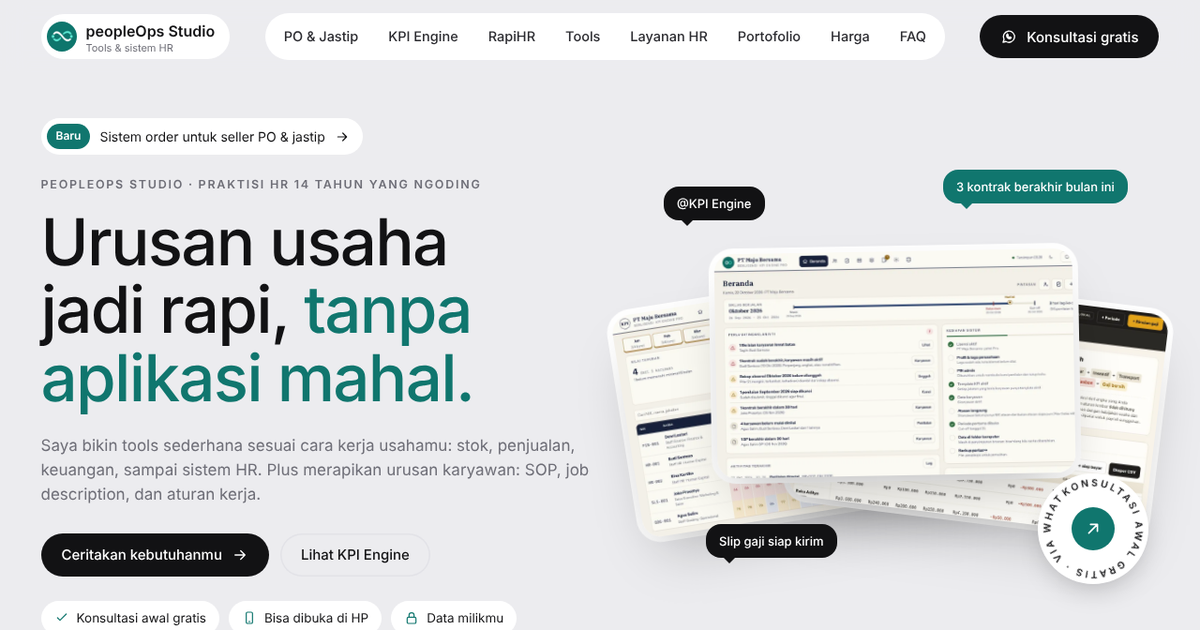
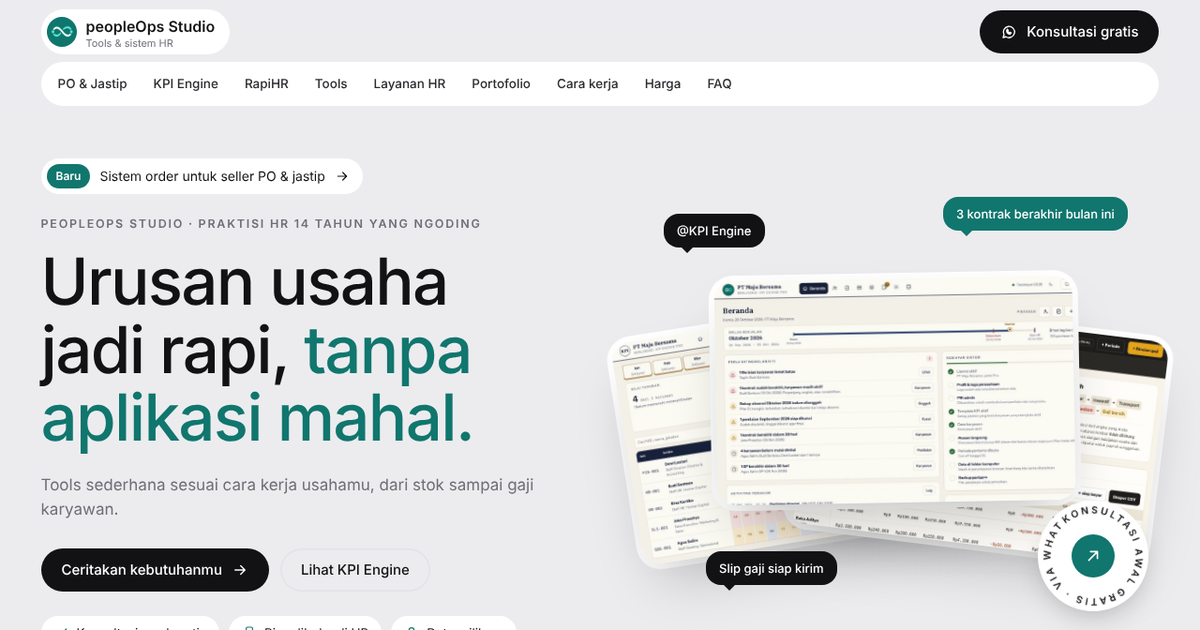
peopleOps landing: ringkas untuk HP, tombol Lihat detail, tab berurutan
Claude-Session: https://claude.ai/code/session_01LgEpUndTVM2aZbJC6vrpbG

diff --git a/peopleops/index.html b/peopleops/index.html
@@ -45,7 +45,7 @@ img{max-width:100%;height:auto;display:block}
 .nav a{white-space:nowrap;position:relative;z-index:1;transition:color .35s;padding:9px 15px;border-radius:999px;text-decoration:none;font-size:14.5px;color:var(--ink2);font-weight:500}
 .nav a:hover{background:var(--paper2)}.nav.has-pill a:hover{background:none;color:var(--ink)}
 .nav a.on{background:var(--ink);color:var(--paper)}.nav.has-pill a.on{background:none;color:var(--paper)}
-@media(max-width:1260px){.nav{display:none}.hdr .btn{margin-left:auto}}
+@media(max-width:1340px){.nav{display:none}.hdr .btn{margin-left:auto}}
 @media(max-width:420px){.brand small{display:none}.hdr .btn{padding:12px 16px}}
 
 /* hero */
@@ -276,7 +276,7 @@ footer .links a{background:var(--paper);border-radius:999px;padding:8px 14px;tex
 /* ===== tampilan HP: lebih ringkas, kartu digeser ke samping ===== */
 .dots{display:none}
 .hdr .btn .xs-hide{margin-left:calc(.28em - 10px)}
-@media(max-width:1260px){
+@media(max-width:1340px){
   .hdr .wrap{flex-wrap:wrap;row-gap:8px;padding-block:10px 8px}
   .nav{display:flex;order:3;width:100%;margin:0;overflow-x:auto;scrollbar-width:none;-webkit-overflow-scrolling:touch}
   .nav::-webkit-scrollbar{display:none}
@@ -313,6 +313,7 @@ footer .links a{background:var(--paper);border-radius:999px;padding:8px 14px;tex
   .grid.g3,.grid.g4:not(.prob),.steps{grid-template-columns:none;grid-auto-flow:column;grid-auto-columns:84%;gap:12px;overflow-x:auto;scroll-snap-type:x mandatory;margin-inline:calc(-1*var(--gx));padding:2px var(--gx) 4px;scroll-padding-inline:var(--gx);scrollbar-width:none;-webkit-overflow-scrolling:touch}
   .grid.g3::-webkit-scrollbar,.grid.g4::-webkit-scrollbar,.steps::-webkit-scrollbar{display:none}
   .grid.g3>*,.grid.g4:not(.prob)>*,.steps>*{scroll-snap-align:start}
+  #tools .grid.g3,#cara .steps{align-items:start}
   .grid.g3>.pre,.grid.g4>.pre,.steps>.pre{opacity:1;transform:none}
   .dots{display:flex;justify-content:center;gap:6px;margin-top:12px}.dots[hidden]{display:none}
   .dots button{width:7px;height:7px;padding:0;border:0;border-radius:99px;background:var(--line);cursor:pointer;transition:width .3s,background .3s}
@@ -346,6 +347,31 @@ footer .links a{background:var(--paper);border-radius:999px;padding:8px 14px;tex
   .cta-band{padding:26px 20px;border-radius:24px;gap:18px}.cta-band h2{font-size:27px}.cta-band p{font-size:15px}
   footer{padding-block:24px 36px;font-size:13px}
 }
+
+/* ringkas: detail disembunyikan, buka dengan "Lihat detail" */
+.more{display:none!important}
+section.open .more{display:block!important;animation:moreIn .4s cubic-bezier(.22,1,.36,1) both}
+section.open ul.more{display:flex!important}
+section.open .li span.more{display:block!important}
+@keyframes moreIn{from{opacity:0;transform:translateY(-4px)}}
+.morewrap{display:flex;justify-content:center;margin-top:16px}
+.morebtn{display:inline-flex;align-items:center;gap:8px;border:0;cursor:pointer;background:var(--paper);color:var(--ink2);font:500 14px var(--font);padding:10px 16px 10px 18px;border-radius:999px;box-shadow:inset 0 0 0 1.5px var(--line);transition:background .2s,color .2s}
+.morebtn:hover{background:var(--paper2)}
+.morebtn .i{width:16px;height:16px;transition:transform .3s cubic-bezier(.22,1,.36,1)}
+section.open .morebtn{background:var(--ink);color:var(--paper);box-shadow:none}
+section.open .morebtn .i{transform:rotate(180deg)}
+/* bar WhatsApp bawah (HP) */
+.fab{display:none}
+@media(max-width:640px){
+  .fab{display:flex;position:fixed;left:12px;right:12px;bottom:calc(12px + env(safe-area-inset-bottom,0px));z-index:30;align-items:center;gap:10px;background:var(--ink);color:var(--paper);border-radius:999px;padding:8px 8px 8px 18px;box-shadow:0 14px 34px -10px rgba(0,0,0,.45);transform:translateY(140%);transition:transform .45s cubic-bezier(.22,1,.36,1);text-decoration:none}
+  .fab.show{transform:none}
+  .fab span{flex:1;font-size:13.5px;line-height:1.25}.fab small{display:block;color:color-mix(in srgb,var(--paper) 65%,transparent);font-size:11.5px}
+  .fab b{background:var(--acc);color:#fff;border-radius:999px;padding:11px 16px;font-weight:600;font-size:13.5px;display:inline-flex;gap:6px;align-items:center}
+  .fab b svg{width:16px;height:16px}
+  footer{padding-bottom:96px}
+  .morewrap{margin-top:12px}.morebtn{font-size:13.5px;padding:9px 14px 9px 16px}
+  .g4.prob .card{gap:6px}
+}
 @media (prefers-reduced-motion: reduce){*,*::before,*::after{animation:none!important;transition:none!important}.pre{opacity:1;transform:none}}
 </style>
 
@@ -353,7 +379,7 @@ footer .links a{background:var(--paper);border-radius:999px;padding:8px 14px;tex
   <div class="wrap">
     <a class="brand" href="#top" aria-label="peopleOps Studio, ke atas"><img src="img/logo.png" alt=""><span>peopleOps Studio<small>Tools & sistem HR</small></span></a>
     <nav class="nav" aria-label="Menu utama">
-      <a href="#jastip">PO & Jastip</a><a href="#kpi">KPI Engine</a><a href="#rapihr">RapiHR</a><a href="#tools">Tools</a><a href="#hr">Layanan HR</a><a href="#portofolio">Portofolio</a><a href="#harga">Harga</a><a href="#faq">FAQ</a>
+      <a href="#jastip">PO & Jastip</a><a href="#kpi">KPI Engine</a><a href="#rapihr">RapiHR</a><a href="#tools">Tools</a><a href="#hr">Layanan HR</a><a href="#portofolio">Portofolio</a><a href="#cara">Cara kerja</a><a href="#harga">Harga</a><a href="#faq">FAQ</a>
     </nav>
     <a class="btn dark" href="https://wa.me/6281196969668" target="_blank" rel="noopener"><svg class="i" viewBox="0 0 24 24"><path d="M4 20l1.3-3.9A8 8 0 1 1 8 19z"/><path d="M9 10c0 3 2 5 5 5l1.5-1.5-2-1-1 .8a4 4 0 0 1-2-2l.8-1-1-2z"/></svg>Konsultasi<span class="xs-hide">gratis</span></a>
   </div>
@@ -366,7 +392,7 @@ footer .links a{background:var(--paper);border-radius:999px;padding:8px 14px;tex
       <a class="newchip" href="#jastip"><b>Baru</b>Sistem order untuk seller PO & jastip<svg class="i" viewBox="0 0 24 24"><path d="M5 12h14M13 6l6 6-6 6"/></svg></a><br>
       <span class="eyebrow">peopleOps Studio · praktisi HR 14 tahun yang ngoding</span>
       <h1>Urusan usaha jadi rapi, <em>tanpa aplikasi mahal.</em></h1>
-      <p class="lead">Saya bikin tools sederhana sesuai cara kerja usahamu: stok, penjualan, keuangan, sampai sistem HR. Plus merapikan urusan karyawan: SOP, job description, dan aturan kerja.</p>
+      <p class="lead">Tools sederhana sesuai cara kerja usahamu, dari stok sampai gaji karyawan.</p>
       <div class="cta">
         <a class="btn dark" href="https://wa.me/6281196969668" target="_blank" rel="noopener">Ceritakan kebutuhanmu <svg class="i" viewBox="0 0 24 24"><path d="M5 12h14M13 6l6 6-6 6"/></svg></a>
         <a class="btn line" href="#kpi">Lihat KPI Engine</a>
@@ -394,19 +420,20 @@ footer .links a{background:var(--paper);border-radius:999px;padding:8px 14px;tex
 
 <section class="s">
   <div class="wrap">
-    <div class="sh"><h2>Usahanya jalan, tapi <em>catatannya berantakan.</em></h2><p>Kenal dengan ini? Empat masalah yang paling sering muncul di usaha yang mulai punya karyawan.</p></div>
+    <div class="sh"><h2>Usahanya jalan, tapi <em>catatannya berantakan.</em></h2><p>Kenal dengan ini?</p></div>
     <div class="grid g4 prob">
-      <article class="card"><span class="ic box"><svg class="i" viewBox="0 0 24 24"><path class="lid" d="M3 8l9-5 9 5" style="transform-origin:12px 8px"/><path d="M3 8v9l9 4 9-4V8M3 8l9 4 9-4M12 12v9"/></svg></span><h3>Stok dicatat di buku</h3><p>Barang habis baru ketahuan waktu pembeli sudah menunggu.</p></article>
-      <article class="card"><span class="ic coin"><svg class="i" viewBox="0 0 24 24"><ellipse cx="12" cy="7" rx="7" ry="3"/><path d="M5 7v5c0 1.7 3.1 3 7 3s7-1.3 7-3V7M5 12v5c0 1.7 3.1 3 7 3s7-1.3 7-3v-5"/></svg></span><h3>Gaji dihitung manual</h3><p>Tiap akhir bulan pusing hitung lembur, potongan, dan kasbon.</p></article>
-      <article class="card"><span class="ic bell"><svg class="i" viewBox="0 0 24 24" style="transform-origin:12px 3px"><path d="M6 16V11a6 6 0 0 1 12 0v5l2 2H4zM10 21a2 2 0 0 0 4 0"/></svg></span><h3>Untung rugi tidak jelas</h3><p>Ramai pembeli, tapi tidak tahu produk mana yang benar-benar untung.</p></article>
-      <article class="card"><span class="ic clock"><svg class="i" viewBox="0 0 24 24"><circle cx="12" cy="12" r="9"/><path class="hand" d="M12 7v5l3 2"/></svg></span><h3>Absen karyawan tidak rapi</h3><p>Telat dan izin tidak tercatat, ujungnya ribut soal gaji.</p></article>
+      <article class="card"><span class="ic box"><svg class="i" viewBox="0 0 24 24"><path class="lid" d="M3 8l9-5 9 5" style="transform-origin:12px 8px"/><path d="M3 8v9l9 4 9-4V8M3 8l9 4 9-4M12 12v9"/></svg></span><h3>Stok dicatat di buku</h3><p class="more">Barang habis baru ketahuan waktu pembeli sudah menunggu.</p></article>
+      <article class="card"><span class="ic coin"><svg class="i" viewBox="0 0 24 24"><ellipse cx="12" cy="7" rx="7" ry="3"/><path d="M5 7v5c0 1.7 3.1 3 7 3s7-1.3 7-3V7M5 12v5c0 1.7 3.1 3 7 3s7-1.3 7-3v-5"/></svg></span><h3>Gaji dihitung manual</h3><p class="more">Tiap akhir bulan pusing hitung lembur, potongan, dan kasbon.</p></article>
+      <article class="card"><span class="ic bell"><svg class="i" viewBox="0 0 24 24" style="transform-origin:12px 3px"><path d="M6 16V11a6 6 0 0 1 12 0v5l2 2H4zM10 21a2 2 0 0 0 4 0"/></svg></span><h3>Untung rugi tidak jelas</h3><p class="more">Ramai pembeli, tapi tidak tahu produk mana yang benar-benar untung.</p></article>
+      <article class="card"><span class="ic clock"><svg class="i" viewBox="0 0 24 24"><circle cx="12" cy="12" r="9"/><path class="hand" d="M12 7v5l3 2"/></svg></span><h3>Absen karyawan tidak rapi</h3><p class="more">Telat dan izin tidak tercatat, ujungnya ribut soal gaji.</p></article>
     </div>
+    <div class="morewrap"><button type="button" class="morebtn" aria-expanded="false"><span>Lihat detail</span><svg class="i" viewBox="0 0 24 24"><path d="m6 9 6 6 6-6"/></svg></button></div>
   </div>
 </section>
 
 <section class="s" id="jastip">
   <div class="wrap">
-    <div class="sh"><h2>Seller PO & jastip: <em>customer cek sendiri, admin tidak ditanya berulang.</em></h2><p>Data customer, invoice DP sampai pelunasan, dan posisi kargo ada di satu sistem. Admin cukup update per batch kargo, semua pesanan di batch itu ikut berubah.</p></div>
+    <div class="sh"><h2>Seller PO & jastip: <em>customer cek pesanan sendiri.</em></h2><p>Coba demonya: pilih kode pesanan di bawah.</p></div>
     <div class="jst">
       <div class="demo" id="jdemo">
         <div class="top"><h3>Cek pesanan</h3><span class="pill acc">Tampilan customer di HP</span></div>
@@ -420,14 +447,15 @@ footer .links a{background:var(--paper);border-radius:999px;padding:8px 14px;tex
       </div>
       <div>
         <div class="mods">
-          <article class="card"><span class="ic"><svg class="i" viewBox="0 0 24 24"><circle cx="9" cy="8" r="3.5"/><path d="M3 20c.6-3.4 3-5.5 6-5.5s5.4 2.1 6 5.5M16 4.5a3.5 3.5 0 0 1 0 7M18 14.8c1.7.7 2.8 2.5 3 5.2"/></svg></span><h3>Database customer</h3><p>Nomor WA, alamat, riwayat order, dan total belanja tiap customer. Tidak perlu cari di chat lama.</p></article>
-          <article class="card"><span class="ic coin"><svg class="i" viewBox="0 0 24 24"><path d="M6 3h12v18l-3-2-3 2-3-2-3 2zM9 8h6M9 12h6M9 16h3"/></svg></span><h3>Invoice otomatis</h3><p>DP, pelunasan, dan ongkir kargo per kg dihitung sendiri. Kurs dicatat saat order supaya tidak salah hitung.</p></article>
-          <article class="card"><span class="ic truck"><svg class="i" viewBox="0 0 24 24"><path d="M3 6h11v10H3zM14 9h4l3 3v4h-7"/><circle cx="7" cy="18" r="2"/><circle cx="17" cy="18" r="2"/></svg></span><h3>Update per batch</h3><p>Ubah status satu batch kargo, puluhan pesanan di dalamnya ikut berubah. Customer langsung lihat.</p></article>
-          <article class="card"><span class="ic"><svg class="i" viewBox="0 0 24 24"><path d="M10 14a4 4 0 0 0 5.7 0l3-3a4 4 0 0 0-5.7-5.7l-1 1M14 10a4 4 0 0 0-5.7 0l-3 3a4 4 0 0 0 5.7 5.7l1-1"/></svg></span><h3>Link cek pesanan</h3><p>Customer buka dari HP tanpa install aplikasi dan tanpa login. Cukup kode pesanan.</p></article>
-          <article class="card wide"><span class="ic"><svg class="i" viewBox="0 0 24 24"><path d="M4 20V10M10 20V4M16 20v-7M22 20H2"/></svg></span><h3>Rekap tanpa Excel</h3><p>Order yang belum lunas, profit per batch, dan barang yang belum dibeli terlihat di satu layar. Tidak perlu input ulang ke Excel.</p></article>
+          <article class="card"><span class="ic"><svg class="i" viewBox="0 0 24 24"><circle cx="9" cy="8" r="3.5"/><path d="M3 20c.6-3.4 3-5.5 6-5.5s5.4 2.1 6 5.5M16 4.5a3.5 3.5 0 0 1 0 7M18 14.8c1.7.7 2.8 2.5 3 5.2"/></svg></span><h3>Database customer</h3><p class="more">Nomor WA, alamat, riwayat order, dan total belanja tiap customer. Tidak perlu cari di chat lama.</p></article>
+          <article class="card"><span class="ic coin"><svg class="i" viewBox="0 0 24 24"><path d="M6 3h12v18l-3-2-3 2-3-2-3 2zM9 8h6M9 12h6M9 16h3"/></svg></span><h3>Invoice otomatis</h3><p class="more">DP, pelunasan, dan ongkir kargo per kg dihitung sendiri. Kurs dicatat saat order supaya tidak salah hitung.</p></article>
+          <article class="card"><span class="ic truck"><svg class="i" viewBox="0 0 24 24"><path d="M3 6h11v10H3zM14 9h4l3 3v4h-7"/><circle cx="7" cy="18" r="2"/><circle cx="17" cy="18" r="2"/></svg></span><h3>Update per batch</h3><p class="more">Ubah status satu batch kargo, puluhan pesanan di dalamnya ikut berubah. Customer langsung lihat.</p></article>
+          <article class="card"><span class="ic"><svg class="i" viewBox="0 0 24 24"><path d="M10 14a4 4 0 0 0 5.7 0l3-3a4 4 0 0 0-5.7-5.7l-1 1M14 10a4 4 0 0 0-5.7 0l-3 3a4 4 0 0 0 5.7 5.7l1-1"/></svg></span><h3>Link cek pesanan</h3><p class="more">Customer buka dari HP tanpa install aplikasi dan tanpa login. Cukup kode pesanan.</p></article>
+          <article class="card wide"><span class="ic"><svg class="i" viewBox="0 0 24 24"><path d="M4 20V10M10 20V4M16 20v-7M22 20H2"/></svg></span><h3>Rekap tanpa Excel</h3><p class="more">Order yang belum lunas, profit per batch, dan barang yang belum dibeli terlihat di satu layar. Tidak perlu input ulang ke Excel.</p></article>
         </div>
       </div>
     </div>
+    <div class="morewrap"><button type="button" class="morebtn" aria-expanded="false"><span>Lihat detail</span><svg class="i" viewBox="0 0 24 24"><path d="m6 9 6 6 6-6"/></svg></button></div>
     <div class="jcta">
       <a class="btn acc" href="https://wa.me/6281196969668?text=Halo%20peopleOps%20Studio%2C%20saya%20seller%20PO%2Fjastip.%20Mau%20konsultasi%20sistem%20order." target="_blank" rel="noopener"><svg class="i" viewBox="0 0 24 24"><path d="M4 20l1.3-3.9A8 8 0 1 1 8 19z"/><path d="M9 10c0 3 2 5 5 5l1.5-1.5-2-1-1 .8a4 4 0 0 1-2-2l.8-1-1-2z"/></svg>Konsultasi gratis via WhatsApp</a>
       <a class="btn line" href="#cara">Lihat cara kerja</a>
@@ -437,103 +465,109 @@ footer .links a{background:var(--paper);border-radius:999px;padding:8px 14px;tex
 
 <section class="s" id="kpi">
   <div class="wrap">
-    <div class="sh"><h2>KPI Engine: penilaian kinerja <em>yang bisa dibuktikan.</em></h2><p>Aplikasi KPI siap pakai dalam satu file. Jalan di laptop tanpa server, dan setiap angka bisa ditelusuri sampai ke berkasnya.</p></div>
+    <div class="sh"><h2>KPI Engine: penilaian kinerja <em>yang bisa dibuktikan.</em></h2><p>Aplikasi KPI siap pakai, jalan di laptop tanpa server.</p></div>
     <div class="bento">
       <figure class="card shot" style="margin:0"><img src="img/kpi-penilaian.webp" alt="Layar penilaian KPI Engine dengan skor tiap indikator" width="1100" height="644"><span class="tag">Contoh tampilan · data fiktif</span></figure>
-      <article class="card hl"><span class="pill dark" style="background:rgba(0,0,0,.22);color:#fff">Produk baru</span><div class="big">12</div><h3 style="color:#fff">template KPI per jabatan</h3><p>Dari Staff HR sampai Supervisor Outlet. Bobot bebas diatur, total selalu tepat 100.</p></article>
-      <article class="card f"><span class="ic"><svg class="i" viewBox="0 0 24 24"><path d="M6 3h9l4 4v14H6z"/><path d="M15 3v4h4M9 13h6M9 17h4"/></svg></span><h3>Evidence sekali klik</h3><p>Tiap indikator punya bukti dari berkas yang masuk, angkanya dicek otomatis dengan nilai di sistem.</p></article>
-      <article class="card f3"><h3>Karyawan masuk sekaligus</h3><p>Isi template Excel, unggah, dan tiap baris dicek. Baris yang salah dikembalikan dengan alasannya.</p></article>
-      <article class="card f3"><h3>Periode terkunci</h3><p>Bulan yang sudah final tidak bisa diubah diam-diam. Membuka kunci butuh PIN admin dan alasan.</p></article>
-      <article class="card f3"><h3>Laporan PDF siap tanda tangan</h3><p>Dua halaman A4: skor, rincian rumus, ringkasan bukti, kolom tanda tangan.</p></article>
+      <article class="card hl"><span class="pill dark" style="background:rgba(0,0,0,.22);color:#fff">Produk baru</span><div class="big">12</div><h3 style="color:#fff">template KPI per jabatan</h3><p class="more">Dari Staff HR sampai Supervisor Outlet. Bobot bebas diatur, total selalu tepat 100.</p></article>
+      <article class="card f"><span class="ic"><svg class="i" viewBox="0 0 24 24"><path d="M6 3h9l4 4v14H6z"/><path d="M15 3v4h4M9 13h6M9 17h4"/></svg></span><h3>Evidence sekali klik</h3><p class="more">Tiap indikator punya bukti dari berkas yang masuk, angkanya dicek otomatis dengan nilai di sistem.</p></article>
+      <article class="card f3"><h3>Karyawan masuk sekaligus</h3><p class="more">Isi template Excel, unggah, dan tiap baris dicek. Baris yang salah dikembalikan dengan alasannya.</p></article>
+      <article class="card f3"><h3>Periode terkunci</h3><p class="more">Bulan yang sudah final tidak bisa diubah diam-diam. Membuka kunci butuh PIN admin dan alasan.</p></article>
+      <article class="card f3"><h3>Laporan PDF siap tanda tangan</h3><p class="more">Dua halaman A4: skor, rincian rumus, ringkasan bukti, kolom tanda tangan.</p></article>
     </div>
 
     <div class="grid g3" id="harga-kpi" style="margin-top:18px">
-      <article class="card"><span class="pill">Starter</span><p>Untuk usaha yang baru mulai menilai kinerja.</p><div class="price">Rp149rb <small>sekali bayar</small></div>
-        <ul><li>1 lisensi perusahaan</li><li>Hingga 25 karyawan</li><li>12 template jabatan</li><li>2 pilihan tema</li></ul>
+      <article class="card"><span class="pill">Starter</span><p class="more">Untuk usaha yang baru mulai menilai kinerja.</p><div class="price">Rp149rb <small>sekali bayar</small></div>
+        <ul class="more"><li>1 lisensi perusahaan</li><li>Hingga 25 karyawan</li><li>12 template jabatan</li><li>2 pilihan tema</li></ul>
         <a class="btn line" href="https://lynk.id/juna83" target="_blank" rel="noopener">Beli di Lynk</a></article>
-      <article class="card pro"><span class="pill" style="background:#61E9D7;color:#0B2F2B">Pro · paling lengkap</span><p>Untuk tim yang ingin semuanya lengkap.</p><div class="price">Rp299rb <small>sekali bayar</small></div>
-        <p style="color:#61E9D7;font-size:14px">Harga perkenalan Rp199rb untuk 30 pembeli pertama</p>
-        <ul><li>1 lisensi perusahaan</li><li>Karyawan tanpa batas</li><li>Semua tema: industrial, FnB, logistik, properti, retail</li><li>File isian untuk karyawan dan atasan</li><li>Template evidence Excel</li></ul>
+      <article class="card pro"><span class="pill" style="background:#61E9D7;color:#0B2F2B">Pro · paling lengkap</span><p class="more">Untuk tim yang ingin semuanya lengkap.</p><div class="price">Rp299rb <small>sekali bayar</small></div>
+        <p class="more" style="color:#61E9D7;font-size:14px">Harga perkenalan Rp199rb untuk 30 pembeli pertama</p>
+        <ul class="more"><li>1 lisensi perusahaan</li><li>Karyawan tanpa batas</li><li>Semua tema: industrial, FnB, logistik, properti, retail</li><li>File isian untuk karyawan dan atasan</li><li>Template evidence Excel</li></ul>
         <a class="btn acc" href="https://lynk.id/juna83" target="_blank" rel="noopener">Beli di Lynk</a></article>
-      <article class="card"><span class="pill">Jasa Setting</span><p>Tidak sempat menyusun KPI sendiri? Kami kerjakan sampai siap dipakai.</p><div class="price"><small>mulai</small> Rp1,5jt</div>
-        <ul><li>Semua isi paket Pro</li><li>KPI disusun per jabatan di usahamu</li><li>Data karyawan diimpor</li><li>1 sesi pelatihan online</li><li>Konsultasi via WhatsApp</li></ul>
+      <article class="card"><span class="pill">Jasa Setting</span><p class="more">Tidak sempat menyusun KPI sendiri? Kami kerjakan sampai siap dipakai.</p><div class="price"><small>mulai</small> Rp1,5jt</div>
+        <ul class="more"><li>Semua isi paket Pro</li><li>KPI disusun per jabatan di usahamu</li><li>Data karyawan diimpor</li><li>1 sesi pelatihan online</li><li>Konsultasi via WhatsApp</li></ul>
         <a class="btn dark" href="https://wa.me/6281196969668" target="_blank" rel="noopener">Tanya via WhatsApp</a></article>
     </div>
-    <p class="note">Satu lisensi untuk satu perusahaan. Nama perusahaan tampil sebagai watermark di aplikasi dan laporan. Butuh Chrome atau Edge di laptop/PC.</p>
+    <div class="morewrap"><button type="button" class="morebtn" aria-expanded="false"><span>Lihat detail</span><svg class="i" viewBox="0 0 24 24"><path d="m6 9 6 6 6-6"/></svg></button></div>
+    <p class="note more">Satu lisensi untuk satu perusahaan. Nama perusahaan tampil sebagai watermark di aplikasi dan laporan. Butuh Chrome atau Edge di laptop/PC.</p>
   </div>
 </section>
 
 <section class="s" id="rapihr">
   <div class="wrap">
-    <div class="sh"><h2>RapiHR: gaji & absensi karyawan <em>beres sendiri.</em></h2><p>Data karyawan, absensi, lembur, gaji, slip, dan BPJS dalam satu aplikasi. Jalan offline di laptop, data tersimpan di folder Anda sendiri.</p></div>
+    <div class="sh"><h2>RapiHR: gaji & absensi karyawan <em>beres sendiri.</em></h2><p>Gaji, absensi, lembur, dan slip dalam satu aplikasi offline.</p></div>
     <div class="bento rh">
       <figure class="card shot" style="margin:0"><img src="img/rapihr-beranda.webp" alt="Beranda RapiHR: kehadiran, proses gaji, dan pengingat kontrak" width="1400" height="875"><span class="tag">Contoh tampilan · data fiktif</span></figure>
-      <article class="card hl"><span class="pill dark" style="background:rgba(0,0,0,.22);color:#fff">Baru · harga promo</span><div class="old">Rp249rb</div><div class="big">Rp199rb</div><h3 style="color:#fff">untuk 150 pembeli pertama</h3><p>Sekali bayar, karyawan tanpa batas. Tidak ada biaya bulanan per karyawan.</p>
+      <article class="card hl"><span class="pill dark" style="background:rgba(0,0,0,.22);color:#fff">Baru · harga promo</span><div class="old">Rp249rb</div><div class="big">Rp199rb</div><h3 style="color:#fff">untuk 150 pembeli pertama</h3><p>Sekali bayar, karyawan tanpa batas.</p>
         <div class="btns"><a class="btn wh" href="https://lynk.id/juna83" target="_blank" rel="noopener">Beli di Lynk</a><a class="btn ghost" href="https://lynk.id/juna83" target="_blank" rel="noopener">Coba gratis</a></div></article>
-      <article class="card f"><span class="ic coin"><svg class="i" viewBox="0 0 24 24"><path d="M6 3h12v18l-3-2-3 2-3-2-3 2zM9 8h6M9 12h6M9 16h3"/></svg></span><h3>Slip gaji sekali klik</h3><p>Gaji pokok, tunjangan, uang makan, lembur, potongan, dan BPJS dihitung otomatis. Slip semua karyawan siap cetak dengan logo perusahaan.</p></article>
-      <article class="card f3"><span class="ic clock"><svg class="i" viewBox="0 0 24 24"><circle cx="12" cy="12" r="9"/><path class="hand" d="M12 7v5l3 2"/></svg></span><h3>Absen & lembur</h3><p>Impor file dari mesin fingerprint. Lembur dihitung sesuai PP 35/2021.</p></article>
-      <article class="card f3"><span class="ic bell"><svg class="i" viewBox="0 0 24 24" style="transform-origin:12px 3px"><path d="M6 16V11a6 6 0 0 1 12 0v5l2 2H4zM10 21a2 2 0 0 0 4 0"/></svg></span><h3>Pengingat kontrak</h3><p>PKWT dan masa percobaan yang hampir habis muncul di Beranda, lengkap dengan hitungan kompensasi.</p></article>
-      <article class="card f3"><span class="ic box"><svg class="i" viewBox="0 0 24 24"><path class="lid" d="M3 8l9-5 9 5" style="transform-origin:12px 8px"/><path d="M3 8v9l9 4 9-4V8M3 8l9 4 9-4M12 12v9"/></svg></span><h3>Periode gaji terkunci</h3><p>Cut off bebas ditentukan. Setelah gaji dibayar, periode ditutup dan angkanya tidak berubah lagi.</p></article>
+      <article class="card f"><span class="ic coin"><svg class="i" viewBox="0 0 24 24"><path d="M6 3h12v18l-3-2-3 2-3-2-3 2zM9 8h6M9 12h6M9 16h3"/></svg></span><h3>Slip gaji sekali klik</h3><p class="more">Gaji pokok, tunjangan, uang makan, lembur, potongan, dan BPJS dihitung otomatis. Slip semua karyawan siap cetak dengan logo perusahaan.</p></article>
+      <article class="card f3"><span class="ic clock"><svg class="i" viewBox="0 0 24 24"><circle cx="12" cy="12" r="9"/><path class="hand" d="M12 7v5l3 2"/></svg></span><h3>Absen & lembur</h3><p class="more">Impor file dari mesin fingerprint. Lembur dihitung sesuai PP 35/2021.</p></article>
+      <article class="card f3"><span class="ic bell"><svg class="i" viewBox="0 0 24 24" style="transform-origin:12px 3px"><path d="M6 16V11a6 6 0 0 1 12 0v5l2 2H4zM10 21a2 2 0 0 0 4 0"/></svg></span><h3>Pengingat kontrak</h3><p class="more">PKWT dan masa percobaan yang hampir habis muncul di Beranda, lengkap dengan hitungan kompensasi.</p></article>
+      <article class="card f3"><span class="ic box"><svg class="i" viewBox="0 0 24 24"><path class="lid" d="M3 8l9-5 9 5" style="transform-origin:12px 8px"/><path d="M3 8v9l9 4 9-4V8M3 8l9 4 9-4M12 12v9"/></svg></span><h3>Periode gaji terkunci</h3><p class="more">Cut off bebas ditentukan. Setelah gaji dibayar, periode ditutup dan angkanya tidak berubah lagi.</p></article>
     </div>
-    <p class="note">1 lisensi untuk 1 perusahaan dan 1 komputer, pindah komputer gratis 2 kali per tahun. Uji coba gratis 24 jam untuk 3 karyawan. Belum menghitung PPh 21. Butuh Chrome atau Edge di laptop/PC.</p>
+    <div class="morewrap"><button type="button" class="morebtn" aria-expanded="false"><span>Lihat detail</span><svg class="i" viewBox="0 0 24 24"><path d="m6 9 6 6 6-6"/></svg></button></div>
+    <p class="note more">1 lisensi untuk 1 perusahaan dan 1 komputer, pindah komputer gratis 2 kali per tahun. Uji coba gratis 24 jam untuk 3 karyawan. Belum menghitung PPh 21. Butuh Chrome atau Edge di laptop/PC.</p>
   </div>
 </section>
 
 <section class="s" id="tools">
   <div class="wrap">
-    <div class="sh"><h2>Tools yang dibuat <em>sesuai cara kerja usahamu.</em></h2><p>Mulai dari satu kebutuhan dulu. Kalau cocok, tinggal ditambah modul berikutnya.</p></div>
+    <div class="sh"><h2>Tools yang dibuat <em>sesuai cara kerja usahamu.</em></h2><p>Mulai dari satu kebutuhan dulu.</p></div>
     <div class="grid g3">
-      <article class="card"><span class="ic"><svg class="i" viewBox="0 0 24 24"><path d="M3 8l9-5 9 5v9l-9 4-9-4z"/><path d="M3 8l9 4 9-4M12 12v9"/></svg></span><h3>Stok & gudang</h3><p>Barang masuk-keluar tercatat, stok menipis langsung ada peringatan.</p><span class="meta">Cocok: toko kelontong, grosir, toko online</span></article>
-      <article class="card"><span class="ic"><svg class="i" viewBox="0 0 24 24"><rect x="3" y="4" width="18" height="12" rx="2"/><path d="M7 20h10M9 16v4M15 16v4M7 9h4"/></svg></span><h3>Kasir & penjualan</h3><p>Catat transaksi harian, rekap otomatis, tahu produk paling laku.</p><span class="meta">Cocok: warung, kafe, toko retail</span></article>
-      <article class="card"><span class="ic"><svg class="i" viewBox="0 0 24 24"><path d="M4 19V5M4 19h16M8 15v-4M12 15V8M16 15v-6"/></svg></span><h3>Keuangan harian</h3><p>Uang masuk dan keluar terpisah jelas, laporan untung-rugi sekali klik.</p><span class="meta">Cocok: semua jenis usaha</span></article>
-      <article class="card"><span class="ic"><svg class="i" viewBox="0 0 24 24"><path d="M6 3h12v18l-3-2-3 2-3-2-3 2z"/><path d="M9 8h6M9 12h6M9 16h3"/></svg></span><h3>Gaji & slip karyawan</h3><p>Hitung gaji, lembur, dan potongan otomatis. Slip langsung kirim ke WhatsApp.</p><span class="meta">Cocok: usaha dengan 3+ karyawan</span></article>
-      <article class="card"><span class="ic"><svg class="i" viewBox="0 0 24 24"><rect x="7" y="3" width="10" height="18" rx="2"/><path d="M10 11l1.5 1.5L14 10"/></svg></span><h3>Absensi via HP</h3><p>Karyawan absen dari HP masing-masing, rekap telat dan izin tersusun sendiri.</p><span class="meta">Cocok: toko, bengkel, kantor kecil</span></article>
+      <article class="card"><span class="ic"><svg class="i" viewBox="0 0 24 24"><path d="M3 8l9-5 9 5v9l-9 4-9-4z"/><path d="M3 8l9 4 9-4M12 12v9"/></svg></span><h3>Stok & gudang</h3><p class="more">Barang masuk-keluar tercatat, stok menipis langsung ada peringatan.</p><span class="meta more">Cocok: toko kelontong, grosir, toko online</span></article>
+      <article class="card"><span class="ic"><svg class="i" viewBox="0 0 24 24"><rect x="3" y="4" width="18" height="12" rx="2"/><path d="M7 20h10M9 16v4M15 16v4M7 9h4"/></svg></span><h3>Kasir & penjualan</h3><p class="more">Catat transaksi harian, rekap otomatis, tahu produk paling laku.</p><span class="meta more">Cocok: warung, kafe, toko retail</span></article>
+      <article class="card"><span class="ic"><svg class="i" viewBox="0 0 24 24"><path d="M4 19V5M4 19h16M8 15v-4M12 15V8M16 15v-6"/></svg></span><h3>Keuangan harian</h3><p class="more">Uang masuk dan keluar terpisah jelas, laporan untung-rugi sekali klik.</p><span class="meta more">Cocok: semua jenis usaha</span></article>
+      <article class="card"><span class="ic"><svg class="i" viewBox="0 0 24 24"><path d="M6 3h12v18l-3-2-3 2-3-2-3 2z"/><path d="M9 8h6M9 12h6M9 16h3"/></svg></span><h3>Gaji & slip karyawan</h3><p class="more">Hitung gaji, lembur, dan potongan otomatis. Slip langsung kirim ke WhatsApp.</p><span class="meta more">Cocok: usaha dengan 3+ karyawan</span></article>
+      <article class="card"><span class="ic"><svg class="i" viewBox="0 0 24 24"><rect x="7" y="3" width="10" height="18" rx="2"/><path d="M10 11l1.5 1.5L14 10"/></svg></span><h3>Absensi via HP</h3><p class="more">Karyawan absen dari HP masing-masing, rekap telat dan izin tersusun sendiri.</p><span class="meta more">Cocok: toko, bengkel, kantor kecil</span></article>
       <article class="card" style="background:var(--acc);color:#fff"><span class="ic" style="background:rgba(255,255,255,.18);color:#fff"><svg class="i" viewBox="0 0 24 24"><path d="M12 5v14M5 12h14"/></svg></span><h3>Kebutuhan lain?</h3><p style="color:rgba(255,255,255,.88)">Booking, member, order jasa, inventaris aset. Ceritakan alurnya, kita rancang bareng.</p><a class="btn wh" style="margin-top:auto;width:fit-content" href="https://wa.me/6281196969668" target="_blank" rel="noopener">Diskusi via WhatsApp</a></article>
     </div>
+    <div class="morewrap"><button type="button" class="morebtn" aria-expanded="false"><span>Lihat detail</span><svg class="i" viewBox="0 0 24 24"><path d="m6 9 6 6 6-6"/></svg></button></div>
   </div>
 </section>
 
 <section class="s" id="hr">
   <div class="wrap">
-    <div class="sh"><h2>Karyawan bertambah? <em>Rapikan aturannya sejak awal.</em></h2><p>Dikerjakan langsung oleh praktisi HR 14 tahun. Bahasa sederhana, sesuai aturan ketenagakerjaan, siap dipakai.</p></div>
+    <div class="sh"><h2>Karyawan bertambah? <em>Rapikan aturannya sejak awal.</em></h2><p>Dikerjakan praktisi HR 14 tahun.</p></div>
     <div class="grid g4">
-      <article class="card"><span class="pill">Job description</span><p>Tugas, tanggung jawab, target, dan kualifikasi tiap jabatan.</p><div class="price" style="font-size:34px"><small>mulai</small> Rp250rb</div><span class="meta">per jabatan · 3–5 hari kerja</span></article>
-      <article class="card"><span class="pill">SOP operasional</span><p>Langkah kerja baku plus flowchart, supaya kualitas tetap sama siapa pun yang kerja.</p><div class="price" style="font-size:34px"><small>mulai</small> Rp500rb</div><span class="meta">per SOP · 5–7 hari kerja</span></article>
-      <article class="card pro"><span class="pill" style="background:#61E9D7;color:#0B2F2B">Paling hemat</span><h3>Paket HR Starter</h3><p>Struktur organisasi, 5 job desc, 3 SOP, template kontrak kerja, dan form cuti/izin.</p><div class="price" style="font-size:34px">Rp3,5jt</div><span class="meta" style="color:#B9B9C2">2–3 minggu</span></article>
-      <article class="card"><span class="pill">HRIS sederhana</span><p>Data karyawan, absensi via HP, cuti, gaji, dan slip ke WhatsApp dalam satu sistem.</p><div class="price" style="font-size:34px"><small>mulai</small> Rp7,5jt</div><span class="meta">+ Rp250rb/bulan server · 4–6 minggu</span></article>
+      <article class="card"><span class="pill">Job description</span><p class="more">Tugas, tanggung jawab, target, dan kualifikasi tiap jabatan.</p><div class="price" style="font-size:34px"><small>mulai</small> Rp250rb</div><span class="meta more">per jabatan · 3–5 hari kerja</span></article>
+      <article class="card"><span class="pill">SOP operasional</span><p class="more">Langkah kerja baku plus flowchart, supaya kualitas tetap sama siapa pun yang kerja.</p><div class="price" style="font-size:34px"><small>mulai</small> Rp500rb</div><span class="meta more">per SOP · 5–7 hari kerja</span></article>
+      <article class="card pro"><span class="pill" style="background:#61E9D7;color:#0B2F2B">Paling hemat</span><h3>Paket HR Starter</h3><p class="more">Struktur organisasi, 5 job desc, 3 SOP, template kontrak kerja, dan form cuti/izin.</p><div class="price" style="font-size:34px">Rp3,5jt</div><span class="meta more" style="color:#B9B9C2">2–3 minggu</span></article>
+      <article class="card"><span class="pill">HRIS sederhana</span><p class="more">Data karyawan, absensi via HP, cuti, gaji, dan slip ke WhatsApp dalam satu sistem.</p><div class="price" style="font-size:34px"><small>mulai</small> Rp7,5jt</div><span class="meta more">+ Rp250rb/bulan server · 4–6 minggu</span></article>
     </div>
+    <div class="morewrap"><button type="button" class="morebtn" aria-expanded="false"><span>Lihat detail</span><svg class="i" viewBox="0 0 24 24"><path d="m6 9 6 6 6-6"/></svg></button></div>
   </div>
 </section>
 
 <section class="s" id="portofolio">
   <div class="wrap">
-    <div class="sh"><h2>Bukan gambar mockup. <em>Semua bisa dicoba.</em></h2><p>Demo memakai data fiktif. Untuk usahamu, alur, kategori, dan tampilannya disesuaikan. Minta link demo lewat WhatsApp.</p></div>
+    <div class="sh"><h2>Bukan gambar mockup. <em>Semua bisa dicoba.</em></h2><p>Minta link demo lewat WhatsApp.</p></div>
     <div class="port">
       <div class="vis" aria-label="Contoh layar demo">
         <figure class="cardimg p1" style="margin:0"><img src="img/hris-karyawan.webp" alt="Demo data karyawan dalam bentuk kartu" width="1100" height="653"></figure>
         <figure class="cardimg p2" style="margin:0"><img src="img/hris-beranda.webp" alt="Demo beranda gaji dan absensi" width="1100" height="653"></figure>
       </div>
       <div class="list">
-        <div class="li"><span class="av">SS</span><b>SaldoSore · buku kas harian</b><span>Keuangan warung & kedai: tutup kas, selisih uang di laci langsung kelihatan.</span></div>
-        <div class="li"><span class="av">BB</span><b>BatchBeku · stok per batch</b><span>Frozen food & katering: modal dan kedaluwarsa per batch, tahu mana dijual dulu.</span></div>
-        <div class="li"><span class="av">SG</span><b>ShiftSiaga · jadwal shift</b><span>Kalender shift, catatan hadir/terlambat, izin, dan rekap per karyawan.</span></div>
-        <div class="li"><span class="av">GL</span><b>GajiLentur · gaji & slip</b><span>Gaji pokok, lembur, kasbon, dan potongan dengan rumus terbuka, slip siap cetak.</span></div>
-        <div class="li"><span class="av">JO</span><b>JejakOrang · berkas & kontrak</b><span>Profil karyawan, pengingat kontrak habis 30 hari, checklist onboarding.</span></div>
+        <div class="li"><span class="av">SS</span><b>SaldoSore · buku kas harian</b><span class="more">Keuangan warung & kedai: tutup kas, selisih uang di laci langsung kelihatan.</span></div>
+        <div class="li"><span class="av">BB</span><b>BatchBeku · stok per batch</b><span class="more">Frozen food & katering: modal dan kedaluwarsa per batch, tahu mana dijual dulu.</span></div>
+        <div class="li"><span class="av">SG</span><b>ShiftSiaga · jadwal shift</b><span class="more">Kalender shift, catatan hadir/terlambat, izin, dan rekap per karyawan.</span></div>
+        <div class="li"><span class="av">GL</span><b>GajiLentur · gaji & slip</b><span class="more">Gaji pokok, lembur, kasbon, dan potongan dengan rumus terbuka, slip siap cetak.</span></div>
+        <div class="li"><span class="av">JO</span><b>JejakOrang · berkas & kontrak</b><span class="more">Profil karyawan, pengingat kontrak habis 30 hari, checklist onboarding.</span></div>
       </div>
     </div>
-    <p class="note">Juga sudah dipakai langsung: aplikasi manajemen laundry (order, harga layanan, notifikasi WhatsApp ke pelanggan).</p>
+    <div class="morewrap"><button type="button" class="morebtn" aria-expanded="false"><span>Lihat detail</span><svg class="i" viewBox="0 0 24 24"><path d="m6 9 6 6 6-6"/></svg></button></div>
+    <p class="note more">Juga sudah dipakai langsung: aplikasi manajemen laundry (order, harga layanan, notifikasi WhatsApp ke pelanggan).</p>
   </div>
 </section>
 
 <section class="s" id="cara">
   <div class="wrap">
-    <div class="sh"><h2>Empat langkah, <em>tanpa ribet.</em></h2><p>Dari cerita singkat via WhatsApp sampai tools dipakai karyawanmu.</p></div>
+    <div class="sh"><h2>Empat langkah, <em>tanpa ribet.</em></h2></div>
     <ol class="steps" style="list-style:none;padding:0;margin:0">
-      <li class="step"><span class="n">1</span><h3>Cerita via WhatsApp</h3><p>Jelaskan usahamu dan apa yang paling bikin repot. Gratis.</p></li>
-      <li class="step"><span class="n">2</span><h3>Rancangan & penawaran</h3><p>Saya kirim gambaran tool, fitur, harga, dan waktu pengerjaan.</p></li>
-      <li class="step"><span class="n">3</span><h3>Dibangun & dicoba</h3><p>Kamu coba versi awalnya, revisi sampai pas dengan alur kerja.</p></li>
-      <li class="step"><span class="n">4</span><h3>Dipakai & didampingi</h3><p>Pelatihan singkat untuk kamu dan karyawan, plus dukungan setelahnya.</p></li>
+      <li class="step"><span class="n">1</span><h3>Cerita via WhatsApp</h3><p class="more">Jelaskan usahamu dan apa yang paling bikin repot. Gratis.</p></li>
+      <li class="step"><span class="n">2</span><h3>Rancangan & penawaran</h3><p class="more">Saya kirim gambaran tool, fitur, harga, dan waktu pengerjaan.</p></li>
+      <li class="step"><span class="n">3</span><h3>Dibangun & dicoba</h3><p class="more">Kamu coba versi awalnya, revisi sampai pas dengan alur kerja.</p></li>
+      <li class="step"><span class="n">4</span><h3>Dipakai & didampingi</h3><p class="more">Pelatihan singkat untuk kamu dan karyawan, plus dukungan setelahnya.</p></li>
     </ol>
+    <div class="morewrap"><button type="button" class="morebtn" aria-expanded="false"><span>Lihat detail</span><svg class="i" viewBox="0 0 24 24"><path d="m6 9 6 6 6-6"/></svg></button></div>
   </div>
 </section>
 
@@ -541,13 +575,14 @@ footer .links a{background:var(--paper);border-radius:999px;padding:8px 14px;tex
   <div class="wrap">
     <div class="sh"><h2>Paket harga tools, <em>tanpa komisi per transaksi.</em></h2><p>Bayar sesuai kebutuhan.</p></div>
     <div class="grid g3">
-      <article class="card"><span class="pill">Tool siap pakai</span><p>Template tool yang tinggal diisi data usahamu.</p><div class="price"><small>mulai</small> Rp299rb</div>
-        <ul><li>1 tool pilihan, aktif 1–2 hari</li><li>Panduan pemakaian</li><li>Bantuan setup via WhatsApp</li></ul><a class="btn line" href="https://wa.me/6281196969668" target="_blank" rel="noopener">Pilih paket ini</a></article>
-      <article class="card pro"><span class="pill" style="background:#61E9D7;color:#0B2F2B">Paling diminati</span><p>Tool custom, dibuat khusus mengikuti alur kerja usahamu.</p><div class="price"><small>mulai</small> Rp2,5jt</div>
-        <ul><li>Selesai 1–3 minggu</li><li>Analisa kebutuhan gratis</li><li>Login untuk pemilik & karyawan</li><li>Revisi sampai sesuai</li><li>Pelatihan pemakaian</li></ul><a class="btn acc" href="https://wa.me/6281196969668" target="_blank" rel="noopener">Konsultasi dulu</a></article>
-      <article class="card"><span class="pill">Langganan online</span><p>Tool online dengan server, backup, dan update rutin.</p><div class="price"><small>mulai</small> Rp149rb <small>/bulan</small></div>
-        <ul><li>Server & database dikelola</li><li>Backup data otomatis</li><li>Notifikasi WhatsApp</li><li>Update fitur gratis</li></ul><a class="btn line" href="https://wa.me/6281196969668" target="_blank" rel="noopener">Tanya detail</a></article>
+      <article class="card"><span class="pill">Tool siap pakai</span><p class="more">Template tool yang tinggal diisi data usahamu.</p><div class="price"><small>mulai</small> Rp299rb</div>
+        <ul class="more"><li>1 tool pilihan, aktif 1–2 hari</li><li>Panduan pemakaian</li><li>Bantuan setup via WhatsApp</li></ul><a class="btn line" href="https://wa.me/6281196969668" target="_blank" rel="noopener">Pilih paket ini</a></article>
+      <article class="card pro"><span class="pill" style="background:#61E9D7;color:#0B2F2B">Paling diminati</span><p class="more">Tool custom, dibuat khusus mengikuti alur kerja usahamu.</p><div class="price"><small>mulai</small> Rp2,5jt</div>
+        <ul class="more"><li>Selesai 1–3 minggu</li><li>Analisa kebutuhan gratis</li><li>Login untuk pemilik & karyawan</li><li>Revisi sampai sesuai</li><li>Pelatihan pemakaian</li></ul><a class="btn acc" href="https://wa.me/6281196969668" target="_blank" rel="noopener">Konsultasi dulu</a></article>
+      <article class="card"><span class="pill">Langganan online</span><p class="more">Tool online dengan server, backup, dan update rutin.</p><div class="price"><small>mulai</small> Rp149rb <small>/bulan</small></div>
+        <ul class="more"><li>Server & database dikelola</li><li>Backup data otomatis</li><li>Notifikasi WhatsApp</li><li>Update fitur gratis</li></ul><a class="btn line" href="https://wa.me/6281196969668" target="_blank" rel="noopener">Tanya detail</a></article>
     </div>
+    <div class="morewrap"><button type="button" class="morebtn" aria-expanded="false"><span>Lihat detail</span><svg class="i" viewBox="0 0 24 24"><path d="m6 9 6 6 6-6"/></svg></button></div>
   </div>
 </section>
 
@@ -556,13 +591,13 @@ footer .links a{background:var(--paper);border-radius:999px;padding:8px 14px;tex
     <article class="card" style="padding:34px">
       <span class="eyebrow">Pendiri peopleOps Studio</span>
       <h2>Halo, saya Juna. Orang HR yang ngoding.</h2>
-      <p style="font-size:17px">14 tahun saya bekerja di bidang HR, mengurus karyawan, gaji, absensi, sampai administrasi. Di sela itu saya belajar membangun sistem sendiri untuk pekerjaan sehari-hari.</p>
-      <p style="font-size:17px">Sekarang pengalaman itu saya bawa ke UMKM: tools yang sederhana, terjangkau, dan dibuat oleh orang yang paham masalah operasional dari dalam.</p>
+      <p style="font-size:17px">14 tahun di HR, membangun sistem sendiri untuk pekerjaan sehari-hari. Sekarang tools-nya saya bawa ke UMKM.</p>
+      
       <div class="kpis"><div><b data-count="14">14</b><span>tahun lebih di HR</span></div><div><b>HRIS</b><span>SOP & dokumen HR dikuasai</span></div><div><b>Gratis</b><span>konsultasi awal</span></div></div>
     </article>
     <article class="card" style="background:var(--acc);color:#fff;justify-content:space-between;padding:34px">
       <h3 style="font-size:28px;color:#fff">Ikuti prosesnya di Threads dan Instagram.</h3>
-      <p style="color:rgba(255,255,255,.88)">Cerita di balik tools yang dibangun, tips HR untuk UMKM, dan demo fitur baru.</p>
+      
       <div style="display:flex;gap:10px;flex-wrap:wrap"><a class="btn wh" href="https://www.threads.net/@peopleopsstudio" target="_blank" rel="noopener">Threads @peopleopsstudio</a><a class="btn wh" href="https://www.instagram.com/peopleopsstudio" target="_blank" rel="noopener">Instagram</a></div>
     </article>
   </div>
@@ -586,7 +621,7 @@ footer .links a{background:var(--paper);border-radius:999px;padding:8px 14px;tex
 <section class="s">
   <div class="wrap">
     <div class="cta-band">
-      <div><h2>Urusan apa yang paling <em>bikin repot</em> di usahamu?</h2><p>Ceritakan lewat WhatsApp. Konsultasi awal gratis, tanpa kewajiban lanjut.</p>
+      <div><h2>Urusan apa yang paling <em>bikin repot</em> di usahamu?</h2><p>Konsultasi awal gratis via WhatsApp.</p>
         <div style="display:flex;gap:12px;flex-wrap:wrap;margin-top:24px;align-items:center"><a class="btn acc" href="https://wa.me/6281196969668" target="_blank" rel="noopener">Chat WhatsApp sekarang</a><span style="color:#B9B9C2;font-size:15px">WA <span class="sel" style="color:#F2F2F4">0811-9696-9668</span></span></div></div>
       <div class="badge" aria-hidden="true">
         <svg class="ring" viewBox="0 0 120 120"><defs><path id="r2" d="M60 60 m-46 0 a46 46 0 1 1 92 0 a46 46 0 1 1 -92 0"/></defs><text><textPath href="#r2">PEOPLEOPS STUDIO · TOOLS & HR ·</textPath></text></svg>
@@ -596,6 +631,7 @@ footer .links a{background:var(--paper);border-radius:999px;padding:8px 14px;tex
   </div>
 </section>
 </main>
+<a class="fab" href="https://wa.me/6281196969668" target="_blank" rel="noopener"><span>Ceritakan kebutuhanmu<small>Konsultasi awal gratis</small></span><b><svg class="i" viewBox="0 0 24 24"><path d="M4 20l1.3-3.9A8 8 0 1 1 8 19z"/><path d="M9 10c0 3 2 5 5 5l1.5-1.5-2-1-1 .8a4 4 0 0 1-2-2l.8-1-1-2z"/></svg>WhatsApp</b></a>
 
 <footer>
   <div class="wrap">
@@ -715,5 +751,17 @@ function build(){d.innerHTML='';if(!mq.matches||g.scrollWidth<=g.clientWidth+4){
 kids.forEach(function(c,k){var b=document.createElement('button');b.type='button';b.setAttribute('aria-label','Kartu '+(k+1));b.onclick=function(){g.scrollTo({left:k*langkah(),behavior:'smooth'})};d.appendChild(b)});upd()}
 g.addEventListener('scroll',function(){requestAnimationFrame(upd)},{passive:true});addEventListener('resize',build);build()})})();
 </script>
+<script>
+/* Lihat detail per bagian + bar WhatsApp di HP */
+(function(){
+document.querySelectorAll('.morebtn').forEach(function(b){var sec=b.closest('section');b.addEventListener('click',function(){
+  var open=!sec.classList.contains('open');sec.classList.toggle('open',open);b.setAttribute('aria-expanded',String(open));b.querySelector('span').textContent=open?'Tutup detail':'Lihat detail';
+  if(!open){try{var r=sec.getBoundingClientRect();if(r.top<0)scrollTo(0,scrollY+r.top-110)}catch(e){}}
+  sec.querySelectorAll('.dots').forEach(function(){window.dispatchEvent(new Event('resize'))})})});
+var fab=document.querySelector('.fab'),hero=document.querySelector('.hero'),band=document.querySelector('.cta-band');
+if(fab&&hero){var f=function(){var hb=hero.getBoundingClientRect().bottom,cb=band?band.getBoundingClientRect():null;var show=hb<0&&!(cb&&cb.top<innerHeight&&cb.bottom>0);fab.classList.toggle('show',show)};addEventListener('scroll',f,{passive:true});f()}
+})();
+</script>
+
 
 </body></html>
